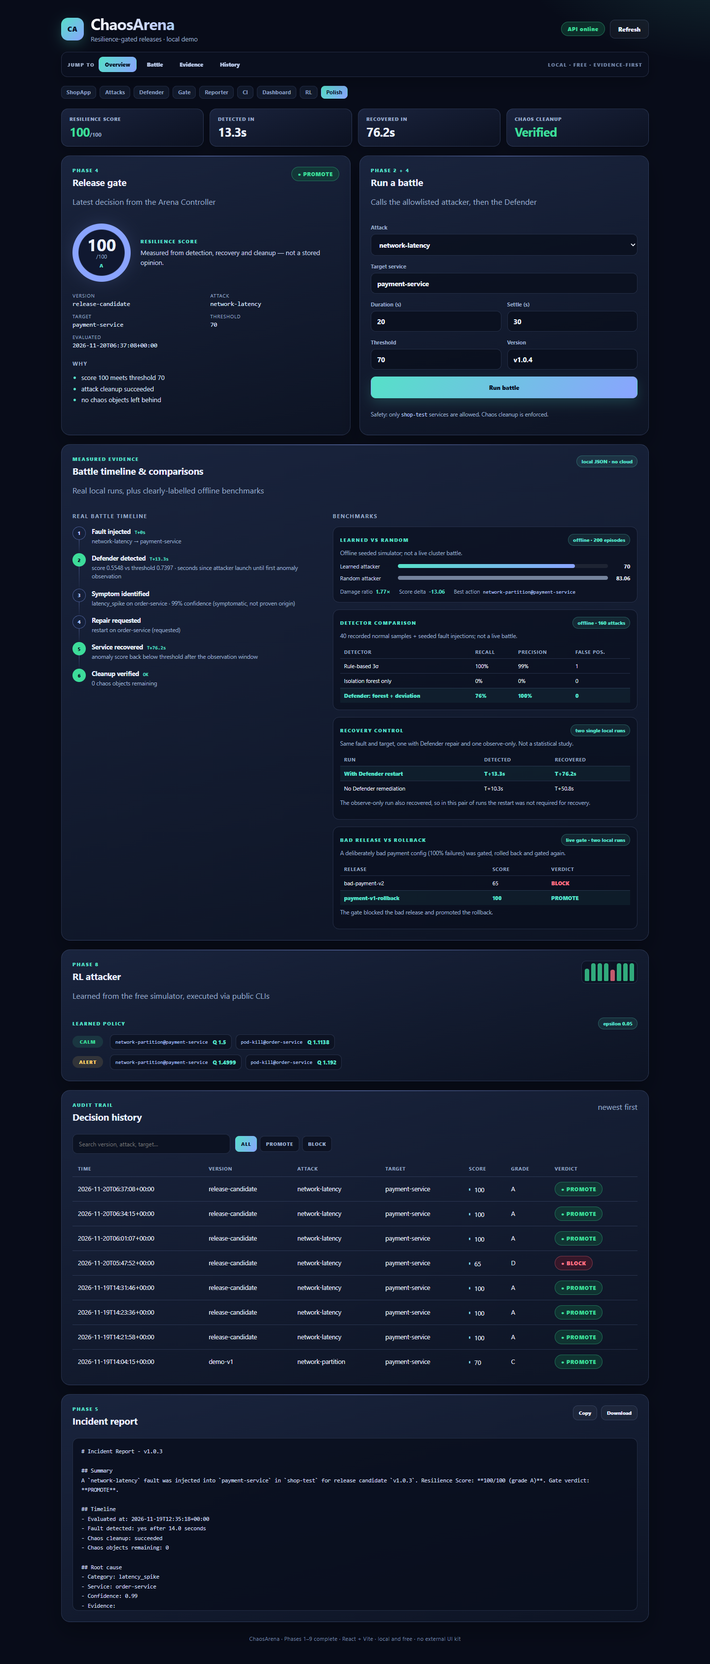
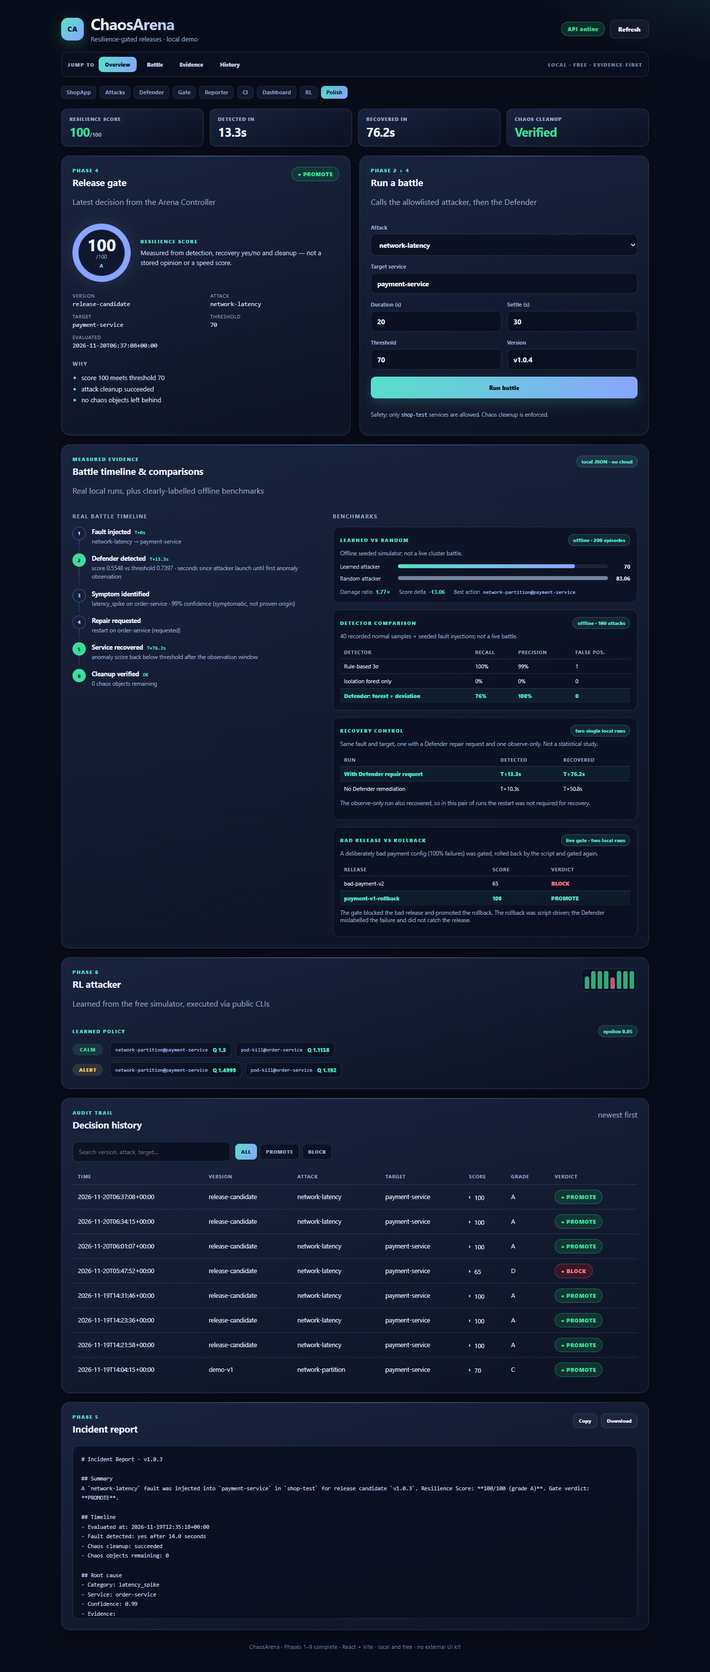
Rewrite overclaims and add score/recovery explanations

diff --git a/dashboard/src/App.jsx b/dashboard/src/App.jsx
@@ -67,7 +67,7 @@ function ScoreRing({ score, grade }) {
       </div>
       <div className="score-copy">
         <span className="eyebrow">Resilience score</span>
-        <p>Measured from detection, recovery and cleanup — not a stored opinion.</p>
+        <p>Measured from detection, recovery yes/no and cleanup — not a stored opinion or a speed score.</p>
       </div>
     </div>
   )
@@ -310,7 +310,7 @@ function Benchmarks({ evidence }) {
             <span className="eyebrow">Recovery control</span>
             <span className="tag">two single local runs</span>
           </div>
-          <p className="muted small">Same fault and target, one with Defender repair and one observe-only. Not a statistical study.</p>
+          <p className="muted small">Same fault and target, one with a Defender repair request and one observe-only. Not a statistical study.</p>
           <div className="table-wrap">
             <table className="compare-table">
               <thead>
@@ -318,7 +318,7 @@ function Benchmarks({ evidence }) {
               </thead>
               <tbody>
                 <tr className="highlight">
-                  <td>With Defender restart</td>
+                  <td>With Defender repair request</td>
                   <td>{evidence?.last_battle?.battle?.detection_seconds != null
                     ? `T+${evidence.last_battle.battle.detection_seconds}s` : '--'}</td>
                   <td>{evidence?.last_battle?.battle?.recovery_seconds != null
@@ -342,7 +342,7 @@ function Benchmarks({ evidence }) {
             <span className="eyebrow">Bad release vs rollback</span>
             <span className="tag">live gate · two local runs</span>
           </div>
-          <p className="muted small">A deliberately bad payment config (100% failures) was gated, rolled back and gated again.</p>
+          <p className="muted small">A deliberately bad payment config (100% failures) was gated, rolled back by the script and gated again.</p>
           <div className="table-wrap">
             <table className="compare-table">
               <thead>
@@ -364,7 +364,7 @@ function Benchmarks({ evidence }) {
           </div>
           <p className="muted small">
             {badRelease.result?.gate_caught_bad_release
-              ? 'The gate blocked the bad release and promoted the rollback.'
+              ? 'The gate blocked the bad release and promoted the rollback. The rollback was script-driven; the Defender mislabelled the failure and did not catch the release.'
               : 'See the committed JSON for the full result.'}
           </p>
         </div>

diff --git a/tests/test_phase9.py b/tests/test_phase9.py
@@ -22,6 +22,11 @@ def test_all_final_docs_exist():
     for name in ["RESULTS.md", "TESTING.md", "BUILD_NOTES.md", "PORTFOLIO_POLISH.md", "DASHBOARD.md"]:
         assert (DOCS / name).exists()
 
+    results = (DOCS / "RESULTS.md").read_text(encoding="utf-8")
+    phase_test_counts = [int(value) for value in re.findall(r"^\| \d+ \|.*?(\d+) tests\b", results, re.MULTILINE)]
+    assert len(phase_test_counts) == 9, f"phase table count mismatch: {phase_test_counts}"
+    assert sum(phase_test_counts) == 122, f"phase table does not sum to 122: {sum(phase_test_counts)}"
+
 
 def test_readme_leads_with_pitch_demo_and_honest_scope():
     readme = (ROOT / "README.md").read_text(encoding="utf-8")
@@ -187,6 +192,7 @@ def test_frontend_has_navigation_timeline_filters_and_report_actions():
         "Overview", "Battle", "Evidence", "History",
         "Battle timeline", "Learned vs random", "Detector comparison",
         "Recovery control", "Bad release vs rollback",
+        "With Defender repair request", "speed score", "script-driven",
         "Search decision history", "Download", "Copy", "toast",
     ]:
         assert label in app, f"missing UI feature: {label}"
@@ -224,6 +230,12 @@ def test_docs_do_not_overclaim_gate_or_rl():
         assert overclaim not in text
     assert "not ppo" in readme.lower()
     assert "measurement artefact" in results.lower() or "measurement timing" in readme.lower()
+    assert "detects, diagnoses and requests a repair" in readme.lower()
+    assert "green on every push" not in readme.lower()
+    assert "neither was measured" not in results.lower()
+    assert "The rollback was performed by the experiment script" in results
+    assert "The score is intentionally simple" in results
+    assert "different result" in results and "phase 4 score 65 / block" in results.lower()
     assert "saved" in phase6.lower()
 
 

diff --git a/README.md b/README.md
@@ -2,7 +2,7 @@
 
 [![ChaosArena Resilience Gate](https://github.com/atharvvv10/chaosarena/actions/workflows/ci.yml/badge.svg)](https://github.com/atharvvv10/chaosarena/actions/workflows/ci.yml)
 
-**A resilience-gated CI/CD lab that treats a release like a fight.** A tabular Q-learning attacker injects one of seven allowlisted Chaos Mesh faults into a `shop-test` namespace; an Isolation Forest defender detects, diagnoses and repairs the fault; and a controller scores the whole exchange into a `PROMOTE`/`BLOCK` decision. It all runs on one laptop with Kind, Prometheus, Grafana and a React dashboard — no cloud account, paid CI minute, hosted database or API key. The repo ships the tests, saved battle evidence, free GitHub Actions workflow and a recorded demo, so you can see and verify the full loop rather than trust a diagram.
+**A resilience-gated CI/CD lab that treats a release like a fight.** A tabular Q-learning attacker injects one of seven allowlisted Chaos Mesh faults into a `shop-test` namespace; an Isolation Forest defender detects, diagnoses and requests a repair; and a controller scores the whole exchange into a `PROMOTE`/`BLOCK` decision. It all runs on one laptop with Kind, Prometheus, Grafana and a React dashboard — no cloud account, paid CI minute, hosted database or API key. The repo ships the tests, saved battle evidence, free GitHub Actions workflow and a recorded demo, so you can see and verify the full loop rather than trust a diagram.
 
 ![ChaosArena demo — run a battle, watch the gate and read the learned policy](docs/screenshots/demo.gif)
 
@@ -21,7 +21,7 @@ The GIF and MP4 record the detected 100/A battle; the PNG is a full-page capture
 | Gate vs bad release | A deliberately bad payment config (`PAYMENT_FAILURE_RATE=1.0`) scored **65/D, BLOCK**; rollback to `0.01` scored **100/A, PROMOTE** on the same battle |
 | RL attacker | Learned policy does **more damage than random**: **1.77×** (resilience **70.0** vs **83.1**) in the seeded simulator |
 | Detector comparison | Plain Isolation Forest **0% recall**; full Defender **76% recall at 0% false positives** — [details](#detector-comparison) |
-| CI | Free `ubuntu-latest` Actions, green on every push, no cluster, no secrets |
+| CI | Free `ubuntu-latest` Actions, latest push green (13/13 runs to date), no cluster, no secrets |
 | Cost | **$0** — local Kind, free React/Vite, free Actions tier, offline reporter by default |
 
 ## Learned vs random attacker
@@ -65,13 +65,13 @@ gate, where a false alarm blocks a good build.
 ## What is in the loop
 
 1. **Attacker** — seven Chaos Mesh experiments behind a hard `shop-test` allowlist; `finally` cleanup always runs.
-2. **Defender** — reads only Prometheus signals, uses Isolation Forest plus a capped deviation term, then detect → diagnose → act → verify. It never imports or reads the attacker.
+2. **Defender** — reads only Prometheus signals, uses Isolation Forest plus a capped deviation term, then detect → diagnose → request a repair → verify. It requests the action; it does not repair by itself. It never imports or reads the attacker.
 3. **Controller** — drives both sides through their public CLIs, recomputes the resilience score from observed facts, and records the gate decision and audit trail.
 4. **Dashboard + CI** — a local React UI with a section nav, always-visible key results, a real battle timeline, labelled offline benchmark panels, searchable history and report actions, plus a free GitHub workflow that re-scores saved fixtures on every push. See [DASHBOARD.md](docs/DASHBOARD.md).
 
 ## Honest scope — read this before an interview
 
-- The early **score 65 / BLOCK** was a *measurement timing* issue: the final Prometheus sample was still inside the attack window. A bounded settle period fixed the measurement; it was **not** a bad release being caught.
+- The early **Phase 4 score 65 / BLOCK** was a *measurement timing* issue: the final Prometheus sample was still inside the attack window. A bounded settle period fixed the measurement; it was **not** a bad release being caught. Do not confuse that old 65 with the live bad-release **65/D/BLOCK** below — they are two different runs.
 - GitHub Actions does **not** run a live battle. It re-scores **saved** passing and failing JSON fixtures on a cluster-free runner. The real battles were run locally and their evidence is committed.
 - The attacker is **tabular Q-learning** (a JSON Q-table with epsilon-greedy exploration), **not PPO** or a deep RL model.
 - The Defender baseline is **40 samples**. That is enough for a deterministic local demo with steady synthetic load; production would need days of traffic across peak/off-peak cycles, drift detection and held-out incidents. See [BUILD_NOTES.md](docs/BUILD_NOTES.md).
@@ -80,8 +80,9 @@ gate, where a false alarm blocks a good build.
 - The diagnoser identifies the symptomatic service, not always the origin. In the headline battle the fault targeted `payment-service`, but `order-service` showed the strongest latency signal and was restarted.
 - A no-Defender control run of the same fault recovered in **50.8 s** with no repair action, versus **76.2 s** in the gated run. Two single runs are not a statistical study, but they do not show that the restart caused recovery. See [RESULTS.md](docs/RESULTS.md#no-defender-control-run).
 - The headline battle now waits for a normal baseline before launching, so its detection time uses the same clock as the control. The old `0.0 s` came from starting a battle while the previous run was still inside Prometheus's 30-second window. A `0.0 s` value appears only in the bad-release run, where the release was already failing before the battle began.
-- The live gate caught a deliberately bad payment release: **65/D/BLOCK** while `PAYMENT_FAILURE_RATE=1.0`, then **100/A/PROMOTE** after rolling back to `0.01`. This is one pair of local runs, not a statistical guarantee; it shows the gate rejected a release that could not pass the resilience check.
+- The live gate caught a deliberately bad payment release: **65/D/BLOCK** while `PAYMENT_FAILURE_RATE=1.0`, then **100/A/PROMOTE** after rolling back to `0.01`. This is one pair of local runs, not a statistical guarantee; it shows the gate rejected a release that could not pass the resilience check. The rollback was performed by the experiment script, **not** the Defender. In the bad-release run the Defender requested a restart of `order-service` while labelling the failure `latency_spike`, despite `order-service_error_rate z=+99.2` and `payment-service_error_rate z=+93.6`; the gate, not the Defender, identified the release as bad.
 - For the network-latency fault, recovery was **not attributable to the Defender**: a no-Defender control recovered on its own. A restart may not fix Chaos Mesh latency because chaos can reattach to the new pod.
+- The **100/A** is not a fast-recovery claim. The score checks whether the fault was detected, whether it recovered, cleanup, the final anomaly score and attacker errors; it does not penalise a slow recovery. `recovery_seconds` is reported separately and includes up to one 30-second Prometheus scrape/window of observation lag. The control recovered sooner on the same clock.
 - The learned attacker's best action comes from a seeded simulator backed by only a few real battles. Treat it as a demo policy, not a production-trained agent.
 - The detector benchmark reuses the same 40 normal samples as the baseline and adds 160 synthetic faults. Treat its F1 numbers as a demo, not production evidence.
 

diff --git a/docs/RESULTS.md b/docs/RESULTS.md
@@ -11,15 +11,15 @@ cluster battle.
 | --- | --- | --- |
 | 1 | 5 FastAPI services + loadgen, shared observability, Kustomize, Prometheus/Grafana/Loki | Local Python run + Docker Compose + Kind deploy verified; 9 tests |
 | 2 | Chaos Mesh 2.8.8, 7 attacks, hard `shop-test` allowlist, guaranteed cleanup | `clusterScoped=true`; 18 tests; cleanup always runs; 0 leftover objects |
-| 3 | Defender detect → diagnose → act → verify | Isolation Forest + capped deviation; real latency attack diagnosed `latency_spike` on `order-service`, restarted, recovered; offline detector comparison added; 16 tests |
-| 4 | Arena Controller, Resilience Score, gate, API | Early score 65 was a settle-timing artefact; the headline battle now waits for a normal baseline, scores 100/A, detects in 13.3 s and recovers in 76.2 s; 12 tests |
+| 3 | Defender detect → diagnose → request repair → verify | Isolation Forest + capped deviation; real latency attack diagnosed `latency_spike` on `order-service`, requested a restart, recovered; offline detector comparison added; 16 tests |
+| 4 | Arena Controller, Resilience Score, gate, API | Early **Phase 4 score 65 / BLOCK** was a settle-timing artefact; the headline battle now waits for a normal baseline, scores 100/A, detects in 13.3 s and recovers in 76.2 s; 12 tests |
 | 5 | Incident reporter, offline + free Groq opt-in | `ml/incident_report.md` and `ml/incident_report_groq.md` with all six sections; 16 tests |
-| 6 | Free GitHub Actions resilience gate | Recomputes score from facts; bad fixture BLOCK, good fixture PROMOTE; 9 tests; all runs green |
+| 6 | Free GitHub Actions resilience gate | Recomputes score from facts; bad fixture BLOCK, good fixture PROMOTE; 9 tests; latest push green |
 | 7 | Local React dashboard | 7 tests; `npm run build` clean; browser battle detected and scored 100 PROMOTE, cleanup ok, 0 objects |
 | 8 | Free tabular RL attacker | 18 tests; 200 sim episodes; offline learned-vs-random benchmark shows 1.77× more damage than chance |
-| 9 | Final docs, results, tests and UI polish | 12 tests; one `make verify`, real screenshots/GIF/video, recruiter README and claim/benchmark guards |
+| 9 | Final docs, results, tests and UI polish | 17 tests; one `make verify`, real screenshots/GIF/video, evidence/baseline/experiment checks, recruiter README and claim/benchmark guards |
 
-**Total: 122 automated tests pass.**
+**Total: 122 automated tests pass.** Phase 9 contributes 17 tests: 12 phase polish checks plus 5 evidence/experiment checks (evidence API, observe-only baseline, live bad-release gate, timing docs and media).
 
 ## Headline gated battle
 
@@ -43,6 +43,17 @@ previous `0.0 s` was a measurement artefact: the battle started while the prior
 run was still inside Prometheus's 30-second window. `ml/last_battle.json` carries
 the basis explicitly in `detection_basis`. A `0.0 s` value is used only in the
 bad-release run, where the release was already failing before the battle began.
+
+**Why 100/A despite a 76.2 s recovery.** The score is intentionally simple:
+it checks whether the fault was detected, whether it recovered at all, whether
+cleanup succeeded, whether the final anomaly score is below threshold, and
+whether the attacker reported an error. It does **not** reward faster recovery.
+`recovery_seconds` is reported separately and is measured by polling
+`defender.cli detect`, so it includes up to one 30-second Prometheus
+scrape/window of observation lag. The 100/A therefore means "detected,
+recovered and cleaned up", not "recovered quickly". The no-Defender control
+recovered sooner on the same clock, so the slow time is not evidence that the
+Defender helped.
 
 CI independently recomputes the score from these facts; it never trusts the
 stored decision. The earlier 10-second `network-partition` demo scored
@@ -97,6 +108,19 @@ battle. The bad-release battle records `detection_seconds: 0.0` because the
 release was already failing before the attack started; it is not a clean-start
 measurement. This is one pair of local runs, not a statistical guarantee, but it
 is a direct live-gate demonstration rather than a saved-fixture self-test.
+
+This **65/D/BLOCK** is a different result from the old **Phase 4 65/BLOCK**
+timing artefact. The bad-release BLOCK came from a real release that failed to
+recover; the Phase 4 BLOCK came from measuring before the Prometheus window
+cleared.
+
+The rollback was performed by the experiment script with `kubectl set env`, not
+by the Defender. In the bad-release run the Defender requested a restart of
+`order-service` and labelled the fault `latency_spike` (confidence 0.99) even
+though the evidence included `order-service_error_rate z=+99.2` and
+`payment-service_error_rate z=+93.6`. The Defender did **not** identify the bad
+config. The **gate** caught the bad release; do not credit the Defender with that
+result.
 
 ## Inconclusive CPU-stress control
 
@@ -161,8 +185,18 @@ comparison is like-for-like. These are offline benchmarks, not live battles.
   battle.
 - The RL attacker is **tabular Q-learning**, not PPO or deep RL.
 - The 40-sample baseline fits a steady synthetic demo, not production traffic.
-- No claim is made about a bad release being blocked or about improved recovery
-  times: neither was measured.
+- A bad release **was** measured: the live gate BLOCKed `PAYMENT_FAILURE_RATE=1.0`
+  at **65/D** and PROMOTEd the `0.01` rollback at **100/A**. That verdict came
+  from the gate, not the Defender: the script performed the rollback and the
+  Defender mislabelled the failure as `latency_spike` on `order-service` despite
+  error-rate z-scores of **+99.2** and **+93.6**.
+- Recovery speed was **not** improved by the Defender in the network-latency
+  control: **76.2 s** with a requested restart versus **50.8 s** without one.
+  Do not claim improved recovery times.
+- The **100/A** is not a fast-recovery score. The gate checks detection,
+  recovery yes/no, cleanup, final anomaly score and attacker errors; it does not
+  reward speed. `recovery_seconds` includes up to one 30-second Prometheus
+  observation window.
 
 ## GitHub Actions
 
@@ -172,7 +206,8 @@ Badge: see the top of `README.md`.
 - Free `ubuntu-latest` runner, public repo, no secrets, no cluster.
 - Actions used: `checkout@v7.0.1`, `setup-python@v7.1.0`, `setup-node@v7.1.0`.
 - Steps: safety guard → pytest → React build → bad-battle BLOCK → good-battle PROMOTE → audit trail.
-- All runs to date are green; the final run is checked after push.
+- Latest push green; **13/13** runs to date succeeded. The latest run is checked
+  after push.
 
 ## Cost statement
 

diff --git a/docs/PORTFOLIO_POLISH.md b/docs/PORTFOLIO_POLISH.md
@@ -98,8 +98,8 @@ nothing is mutated.
 - Offline detector comparison: rule-based 3-sigma 100% recall / 1 false alarm;
   plain Isolation Forest 0% recall; shipped Defender 76.2% recall / **0** false
   alarms. Evidence: `ml/defender_benchmark.json`.
-- Demo video duration: **1 min 22 s** (`demo.mp4`), GIF ≈ 26 s, dashboard and
-  Grafana PNGs captured at 1440×900 and 1600×1000 respectively.
+- Demo video duration: **1 min 22 s** (`demo.mp4`), GIF ≈ 26 s, dashboard PNG
+  captured full-page at 1440×3372, Grafana PNG at 1600×1000.
 - `attacker.cli status` after capture: `chaos_objects: []`, all pods Running.
 - Test suite and cluster-free verification pass; details in the final summary.
 
@@ -107,7 +107,7 @@ nothing is mutated.
 
 | Earlier wording | Why it was risky | Current wording |
 | --- | --- | --- |
-| "Live BLOCK score 65 proved the gate can stop a release" | The BLOCK came from sampling before the 30-second Prometheus window cleared, not from a bad release. | Explicitly called a measurement-timing artefact, fixed with a settle period. |
+| "Phase 4 score 65/BLOCK proved the gate can stop a release" | That specific BLOCK came from sampling before the 30-second Prometheus window cleared, not from a bad release. | Explicitly called a measurement-timing artefact, fixed with a settle period. Labelled distinct from the later live bad-release **65/D/BLOCK**. |
 | "CI proves the gate can stop a bad release" | Actions re-scores saved JSON fixtures; there is no cluster or live attack on the runner. | Explicitly described as a saved-fixture logic self-test. |
 | "RL attacker / PPO implication" | The implementation is a small tabular Q-table, not PPO or deep RL. | README says **tabular Q-learning, not PPO**, with the Q-table file linked. |
 | "40-sample baseline" without context | Fine for a demo, misleading for production. | Explained why it is enough for steady synthetic load and what production needs. |
@@ -116,7 +116,8 @@ nothing is mutated.
 | "Diagnosed and recovered" with no numbers | No evidence of speed. | Detection (13.3 s) and recovery 76.2 s recorded in `BattleResult` and shown in the table. |
 | "The Defender's restart fixed the fault" | The attack targeted `payment-service`, but the diagnoser blamed the symptomatic `order-service`, and the fault self-heals. | Added a no-Defender control run: same fault, no remediation, recovered in 50.8 s. Stated that the diagnoser finds symptoms, not always the origin. |
 | "Detected in 0.0 s" without context | Looks like a fake or a clock that started too late. | The controller now waits for a normal baseline before launch; the headline uses 13.3 s on the same clock as the control. `0.0 s` appears only when the anomaly was already present (bad-release run). |
-| "The gate can stop a bad release" without a live run | Saved fixtures are not a live gate test. | Added `scripts/bad_release_experiment.py`: a bad payment config is BLOCKed at 65/D, then the rollback is PROMOTEd at 100/A. |
+| "The gate can stop a bad release" without a live run | Saved fixtures are not a live gate test. | Added `scripts/bad_release_experiment.py`: a bad payment config is BLOCKed at 65/D, then the rollback is PROMOTEd at 100/A. The script performs the rollback; the gate, not the Defender, catches the release. |
+| "100/A means it recovered quickly" | The score checks recovery yes/no, not speed; the 76.2 s time includes a Prometheus observation window. | Stated in README/RESULTS that the score is not a speed metric and that the no-Defender control recovered sooner. |
 | No rule-based / Isolation Forest comparison | The most convincing result for a detector project was missing. | Added a like-for-like offline table; reported honestly, including that a 3-sigma rule wins recall while the Defender wins precision. |
 
 ## Common errors and fixes

diff --git a/docs/BUILD_NOTES.md b/docs/BUILD_NOTES.md
@@ -9,7 +9,7 @@ See [local-setup.md](local-setup.md) — installed tool versions and WSL2 setup.
 See [phase2.md](phase2.md) — the 7 attacks, hard allowlist, cleanup design and
 measured results. Chaos Mesh is installed in the `chaos-mesh` namespace.
 See [phase3.md](phase3.md) — the Defender's model, bounded actions and the full
-detect → diagnose → act → verify result.
+detect → diagnose → request repair → verify result.
 See [phase4.md](phase4.md) — the battle, score rules, gate decision and API.
 See [phase5.md](phase5.md) — the incident report, offline backend and free Groq setup.
 See [phase6.md](phase6.md) — the free GitHub Actions workflow and CI gate.
@@ -57,12 +57,13 @@ non-zero lines for all five services in the request-rate, error-rate and latency
   order-service p95 from **0.24 s → 0.845 s → 0.24 s** (before / during / after).
 - Phase 3: 40-sample baseline trained to threshold **0.7397**. During a real
   latency attack the Defender scored **1.123**, diagnosed `latency_spike` on
-  `order-service` (`z=+237.6`), restarted it in `shop-test`, and verification
+  `order-service` (`z=+237.6`), requested a restart in `shop-test`, and verification
   returned **0.586** with `recovered: true`. No attacker import in `defender/`.
 - Phase 4: the first `network-latency` battle scored **65 / BLOCK** because the
   final Prometheus sample was still inside the attack window — a measurement
-  timing issue, not a rejected bad release. A bounded settle period fixed the
-  measurement; the next battle scored **100 / PROMOTE** for `v1.0.1`.
+  timing issue, not a rejected bad release. This old 65 is distinct from the
+  live bad-release **65/D/BLOCK** recorded later. A bounded settle period fixed
+  the measurement; the next battle scored **100 / PROMOTE** for `v1.0.1`.
   `/gate/evaluate` also ran a `pod-kill` battle live through uvicorn; decisions
   are in `ml/gate_decisions.jsonl`. No attacker/defender import in `controller/`.
 - Phase 5: a fresh 20-second battle produced `ml/last_battle.json`; the offline

diff --git a/docs/phase4.md b/docs/phase4.md
@@ -77,11 +77,12 @@ cd D:\Projects\1\chaosarena
 ## Results actually measured on this laptop
 
 - **122 tests pass** across all nine phases after the final evidence checks.
-- First `network-latency` battle: detected in **13.3 s**, diagnosed `latency_spike`
-  on `order-service`, restarted it, but the final Prometheus sample was still
-  inside the 30-second attack window → score **65**, verdict **BLOCK**.
+- First Phase 4 `network-latency` battle: detected, diagnosed `latency_spike`
+  on `order-service`, requested a restart for it, but the final Prometheus sample
+  was still inside the 30-second attack window → score **65**, verdict **BLOCK**.
   This was a measurement artefact, not a rejected bad release; it is fixed by
-  the bounded settle period below.
+  the bounded settle period below. This old **Phase 4 65/BLOCK** is distinct from
+  the later live bad-release **65/D/BLOCK**.
 - Added a bounded settle period (up to 45 s, polling every 5 s). Second battle:
   detected at 13.9 s, final score **0.598** vs threshold **0.740** → score
   **100**, grade **A**, verdict **PROMOTE** for `v1.0.1`.
@@ -91,7 +92,7 @@ cd D:\Projects\1\chaosarena
 - The controller now records `detection_seconds` and `recovery_seconds` in every
   `BattleResult`. The committed headline battle (`ml/last_battle.json`) was
   detected in **13.3 s**, recovered in **76.2 s**, diagnosed `latency_spike` on
-  `order-service`, restarted it, and scored **100 / A / PROMOTE** with zero
+  `order-service`, requested a restart for it, and scored **100 / A / PROMOTE** with zero
   deductions and zero chaos objects left.
 - API `/health` and `/gate/last` verified live; decision log contains both
   BLOCK and PROMOTE entries.

diff --git a/docs/phase3.md b/docs/phase3.md
@@ -1,4 +1,4 @@
-# Phase 3 — Defender (Isolation Forest detect → diagnose → act → verify)
+# Phase 3 — Defender (Isolation Forest detect → diagnose → request repair → verify)
 
 ## What this phase adds
 
@@ -34,7 +34,7 @@ replicas. It cannot delete anything and cannot reach `shop-prod`.
 1. **Detect** — score the current 18-number vector. Above threshold = anomaly.
 2. **Diagnose** — find which service/metric deviated most and name the family
    (`latency_spike`, `error_spike`, `traffic_drop`).
-3. **Act** — apply one small, logged repair: restart a deployment, or scale it
+3. **Act** — request one small, logged repair: restart a deployment, or scale it
    to 3 replicas.
 4. **Verify** — sample again and check the score is back below threshold.
 
@@ -87,10 +87,10 @@ peak/off-peak cycles, drift detection and held-out incidents.
 |---|---|---|
 | Normal traffic | 0.567 | `anomaly: false` |
 | During latency attack | 1.123 | `anomaly: true` |
-| After restart + cleanup | 0.586 | `anomaly: false`, `recovered: true` |
+| After restart request + cleanup | 0.586 | `anomaly: false`, `recovered: true` |
 
 The full loop diagnosed **`latency_spike` on `order-service`** (evidence:
-`order-service_p95_latency z=+237.6`), chose `restart`, applied it to
+`order-service_p95_latency z=+237.6`), chose `restart`, requested it for
 `shop-test`, and verification reported `recovered: true`. Chaos cleanup left
 zero objects and `attacker.cli status` showed no active experiments.
 

diff --git a/docs/DASHBOARD.md b/docs/DASHBOARD.md
@@ -22,7 +22,10 @@ charts, no API keys and no external UI kits.
 - **Recovery control** — compares the gated battle with a no-remediation run of the same
   fault and says plainly that two single runs are not a statistical study.
 - **Bad release vs rollback** — shows the live gate blocking a deliberately bad payment
-  config at 65/D, then promoting the rollback at 100/A.
+  config at 65/D, then promoting the rollback at 100/A. The panel says the rollback
+  was script-driven and the gate, not the Defender, caught the release.
+- **Score meaning** — the score card says it measures detection, recovery yes/no
+  and cleanup, not recovery speed.
 - **History tools** — search by version, attack, target or verdict, plus one-click
   PROMOTE/BLOCK filters.
 - **Report actions** — copy the incident report to the clipboard or download it as Markdown.

diff --git a/docs/phase9.md b/docs/phase9.md
@@ -30,7 +30,7 @@ policy. No new service, no new dependency, no new cost.
 | `dashboard/src/styles.css` | Polished dark theme, gradients, hover states, responsive breakpoints. |
 | `dashboard/src/main.jsx` | Removed `StrictMode` duplicate dev fetches. |
 | `dashboard/README.md` | Documents the new RL panel and trend. |
-| `tests/test_phase9.py` | 8 final acceptance tests. |
+| `tests/test_phase9.py` | 17 final acceptance tests. |
 | `Makefile` | `verify` target. |
 | `README.md` | Final status, checklist and docs links. |
 

diff --git a/docs/phase5.md b/docs/phase5.md
@@ -65,7 +65,7 @@ $env:GROQ_API_KEY='gsk_your_free_key_here'
 
 - **64 tests pass** (48 earlier + 16 new).
 - Fresh battle: detected at **14.0 s**, diagnosed `latency_spike` on
-  `order-service` (`z=+289.5`), restarted it, score **100**, verdict **PROMOTE**
+  `order-service` (`z=+289.5`), requested a restart for it, score **100**, verdict **PROMOTE**
   for `v1.0.3`.
 - Offline report written to `ml/incident_report.md` with all six sections and
   the real numbers above.
